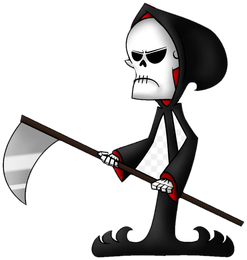
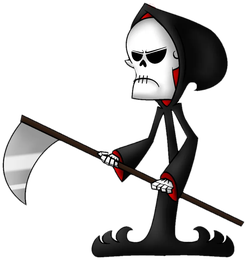
GRIM: clear enclosed pale fills (chest panel, hood gaps) from sprite
Enclosed regions the border flood can't reach (flattened checkerboard
inside the figure) stayed opaque white on the desktop. Now any enclosed
light component with <3% dark pixels is cleared, while shaded content
(skull bone, scythe blade gradients) is preserved. Safety threshold
recalibrated (76% legit removal on this asset). 26 tests green.

diff --git a/make_sprites.py b/make_sprites.py
@@ -64,6 +64,41 @@ def _flood_from_borders(bgmask, w, h):
     return visited
 
 
+def clear_enclosed_pale(px, w, h, visited, bgmask):
+    """Enclosed regions filled with flat near-white (flattened checkerboard
+    inside the figure: chest panel, gaps) become transparent.
+
+    Content that merely looks light stays: skull bone and blade carry real
+    shading, so any component with >3% pixels darker than 220 is kept.
+    """
+    seen = set()
+    cleared = 0
+    for start in range(w * h):
+        if not (bgmask[start] and not visited[start]) or start in seen:
+            continue
+        seen.add(start)
+        q = deque([start])
+        cells = [start]
+        while q:
+            j = q.popleft()
+            x, y = j % w, j // w
+            for nx, ny in ((x + 1, y), (x - 1, y), (x, y + 1), (x, y - 1)):
+                k = ny * w + nx
+                if 0 <= nx < w and 0 <= ny < h and bgmask[k] \
+                        and not visited[k] and k not in seen:
+                    seen.add(k)
+                    q.append(k)
+                    cells.append(k)
+        if len(cells) < 100:
+            continue
+        dark = sum(1 for c in cells if sum(px[c % w, c // w][:3]) // 3 < 220)
+        if dark / len(cells) < 0.03:
+            for c in cells:
+                visited[c] = 1
+            cleared += len(cells)
+    return cleared
+
+
 def knock_out_background(im):
     """Flood-fill from the borders, with a morphological closing first so
     thin anti-aliased gaps can't leak the flood into hollow parts of the
@@ -80,10 +115,12 @@ def knock_out_background(im):
     closed = bg_img.filter(ImageFilter.MinFilter(k)).filter(ImageFilter.MaxFilter(k))
     closed_mask = bytearray(1 if v > 127 else 0 for v in closed.tobytes())
     visited = _flood_from_borders(closed_mask, w, h)
+    pale = clear_enclosed_pale(px, w, h, visited, bgmask)
+    print(f"cleared {pale} px of enclosed pale fills (chest, gaps)")
     alpha = Image.new("L", (w, h), 255)
     alpha.putdata([0 if visited[i] else 255 for i in range(w * h)])
     removed = sum(visited) / (w * h)
-    if removed > 0.75:
+    if removed > 0.85:
         raise SystemExit("background knockout removed "
                          f"{removed:.0%} of the image -- wrong source?")
     return alpha

diff --git a/test_reaper.py b/test_reaper.py
@@ -67,18 +67,30 @@ class KnockoutTests(unittest.TestCase):
         self.assertEqual(alpha.getpixel((30, 25)), 255)      # inside figure
         self.assertEqual(alpha.getpixel((15, 10)), 255)      # figure edge
 
-    def test_hollow_interior_stays_solid(self):
-        # black ring with light-gray 'robe hollow' inside, connected to the
-        # outside by a 1px light-gray anti-alias channel
+    def test_enclosed_pale_hollow_cleared(self):
+        # black figure with a pure-white hollow inside, connected to the
+        # outside by a thin pale anti-alias channel (the chest-hole case)
         im = self.make_image(80, 60, (20, 15, 60, 45))
         for y in range(25, 35):
             for x in range(30, 50):
-                im.putpixel((x, y), (255, 255, 255, 255))    # hollow interior
+                im.putpixel((x, y), (255, 255, 255, 255))    # pale hollow
         for x in range(59, 80):
             im.putpixel((x, 30), (250, 250, 250, 255))       # leak channel
         alpha = ms.knock_out_background(im)
-        self.assertEqual(alpha.getpixel((40, 30)), 255)      # hollow stays solid
+        self.assertEqual(alpha.getpixel((40, 30)), 0)        # hollow cleared
         self.assertEqual(alpha.getpixel((2, 2)), 0)          # outer bg removed
+        self.assertEqual(alpha.getpixel((21, 16)), 255)      # figure edge kept
+
+    def test_shaded_enclosed_region_stays_solid(self):
+        # skull-like content: light but with real shading (dark pixels),
+        # so it must NOT be knocked out even though it is enclosed
+        im = self.make_image(80, 60, (20, 15, 60, 45))
+        for y in range(25, 35):
+            for x in range(30, 50):
+                shade = 255 if (x + y) % 2 else 190          # shaded bone
+                im.putpixel((x, y), (shade, shade, shade, 255))
+        alpha = ms.knock_out_background(im)
+        self.assertEqual(alpha.getpixel((40, 30)), 255)      # shading kept
 
 
 class BankHasReaperFood(unittest.TestCase):
